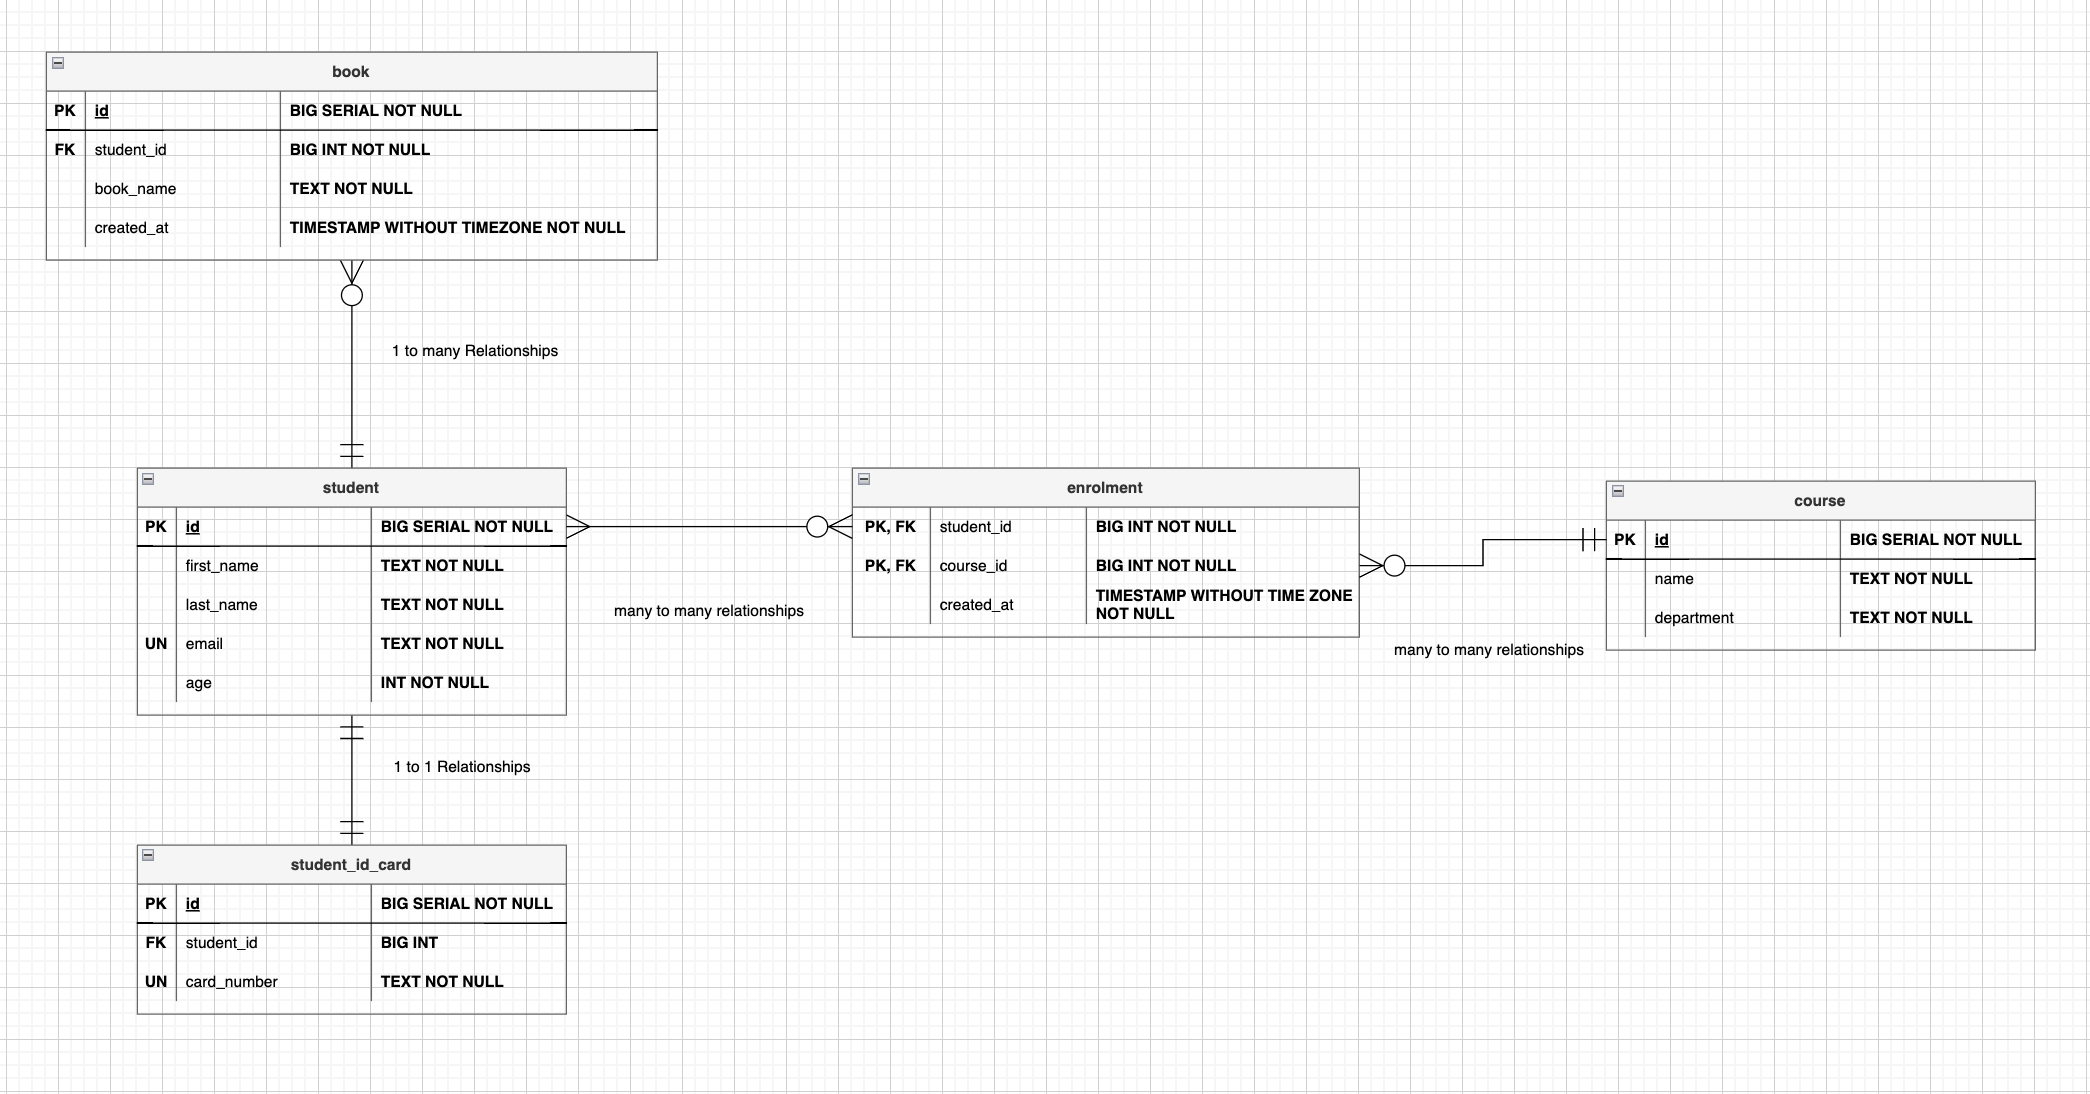
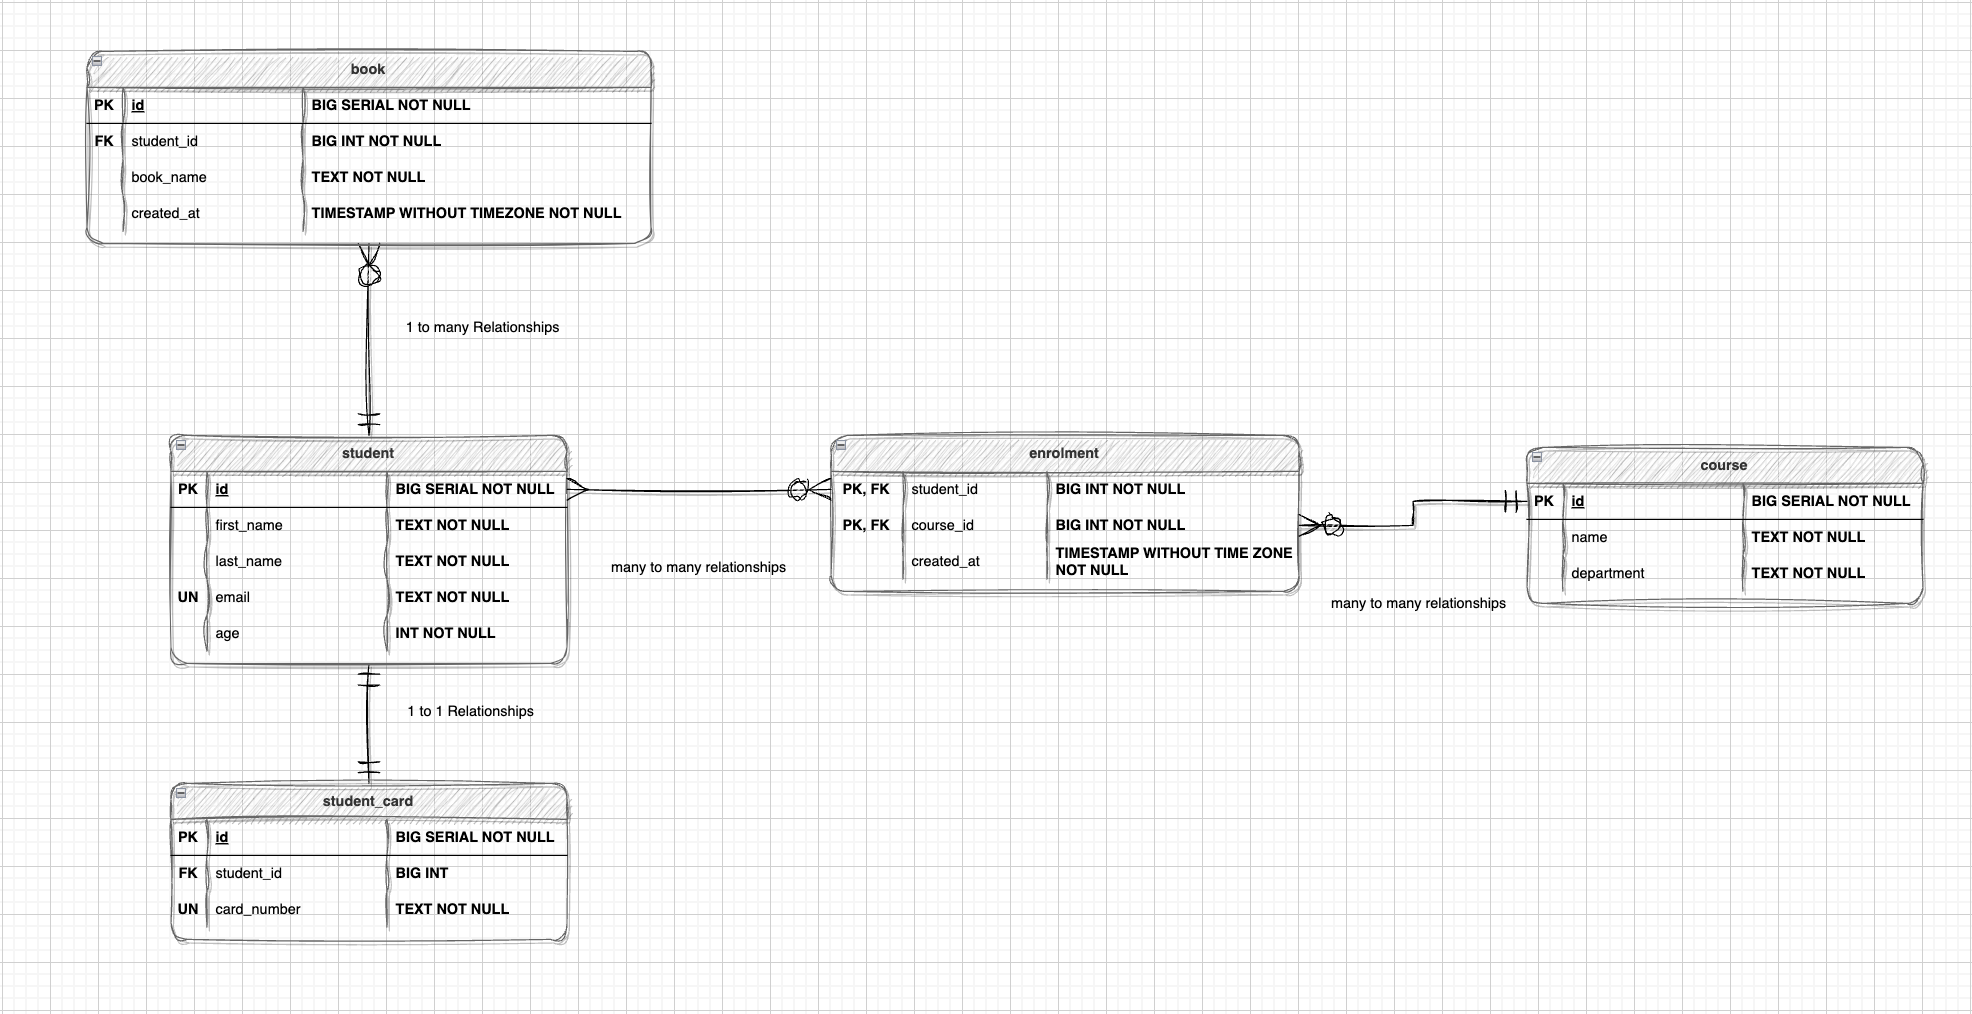
Implemented the data model

diff --git a/src/main/java/com/mohamedbamoh/studentcourseenrolment/entity/Student.java b/src/main/java/com/mohamedbamoh/studentcourseenrolment/entity/Student.java
@@ -1,0 +1,89 @@
+package com.mohamedbamoh.studentcourseenrolment.entity;
+
+import jakarta.persistence.*;
+import lombok.Getter;
+import lombok.NoArgsConstructor;
+import lombok.Setter;
+
+import java.util.List;
+
+@NoArgsConstructor
+@Setter
+@Getter
+@Entity(name = "Student")
+@Table(name = "student", uniqueConstraints = {
+        @UniqueConstraint(name = "student_email_uk", columnNames = "email")
+})
+public class Student {
+
+
+    @SequenceGenerator(
+            name = "student_seq",
+            sequenceName = "student_seq",
+            allocationSize = 1
+    )
+    @GeneratedValue(
+            strategy = GenerationType.SEQUENCE,
+            generator = "student_seq"
+    )
+    @Column(name = "id", updatable = false)
+    @Id
+    private Long Id;
+
+    @Column(name = "first_name",
+            nullable = false, columnDefinition = "TEXT")
+    private String firstName;
+
+    @Column(name = "last_name",
+            nullable = false, columnDefinition = "TEXT")
+    private String lastName;
+
+    @Column(name = "email",
+            nullable = false, columnDefinition = "TEXT")
+    private String email;
+
+    @Column(name = "age", nullable = false)
+    private Integer age;
+
+    @OneToOne(mappedBy = "student", orphanRemoval = true)
+    private StudentCard studentCard;
+
+    @OneToMany(mappedBy = "student",
+            orphanRemoval = true,
+            cascade = CascadeType.ALL
+    )
+    private List<Book> books;
+
+
+//    @ManyToMany(cascade = CascadeType.ALL)
+//    @JoinTable(name = "enrolment",
+//            joinColumns = @JoinColumn(name = "student_id",
+//                    foreignKey = @ForeignKey(name = "student_id_fk")
+//            ),
+//            inverseJoinColumns = @JoinColumn(name = "course_id",
+//                    foreignKey = @ForeignKey(name = "course_id_fk")
+//            )
+//    )
+//    private List<Course> courses;
+
+    @OneToMany(
+            cascade = CascadeType.ALL,
+            mappedBy = "student"
+    )
+    private List<Enrolment> enrolments;
+
+    public void addBook(Book book) {
+        if (!this.books.contains(book)) {
+            this.books.add(book);
+            book.setStudent(this);
+        }
+    }
+
+    public void removeBook(Book book) {
+        if (this.books.contains(book)) {
+            this.books.remove(book);
+            book.setStudent(null);
+        }
+    }
+
+}

diff --git a/src/main/java/com/mohamedbamoh/studentcourseenrolment/entity/StudentCard.java b/src/main/java/com/mohamedbamoh/studentcourseenrolment/entity/StudentCard.java
@@ -1,0 +1,41 @@
+package com.mohamedbamoh.studentcourseenrolment.entity;
+
+import jakarta.persistence.*;
+import lombok.Getter;
+import lombok.NoArgsConstructor;
+import lombok.Setter;
+
+@NoArgsConstructor
+@Setter
+@Getter
+@Entity(name = "StudentCard")
+@Table(name = "student_card",
+        uniqueConstraints = {
+                @UniqueConstraint(name = "student_card_number_uk",
+                        columnNames = "card_number")
+        }
+)
+public class StudentCard {
+
+    @SequenceGenerator(name = "student_card_seq",
+            sequenceName = "student_card_seq",
+            allocationSize = 1)
+    @GeneratedValue(strategy = GenerationType.SEQUENCE,
+            generator = "student_card_seq")
+    @Column(name = "id", updatable = false)
+    @Id
+    private Long id;
+
+    @Column(name = "card_number",
+            nullable = false,
+            columnDefinition = "TEXT")
+    private String cardNumber;
+
+    @OneToOne(cascade = CascadeType.ALL,
+            fetch = FetchType.EAGER)
+    @JoinColumn(name = "student_id",
+            referencedColumnName = "id",
+            foreignKey = @ForeignKey(name = "student_id_fk")
+    )
+    private Student student;
+}

diff --git a/src/main/java/com/mohamedbamoh/studentcourseenrolment/entity/Book.java b/src/main/java/com/mohamedbamoh/studentcourseenrolment/entity/Book.java
@@ -1,0 +1,44 @@
+package com.mohamedbamoh.studentcourseenrolment.entity;
+
+import jakarta.persistence.*;
+import lombok.Getter;
+import lombok.NoArgsConstructor;
+import lombok.Setter;
+
+import java.time.LocalDateTime;
+
+@NoArgsConstructor
+@Setter
+@Getter
+@Entity(name = "Book")
+@Table(name = "book")
+public class Book {
+
+    @SequenceGenerator(
+            name = "book_seq",
+            sequenceName = "book_seq",
+            allocationSize = 1
+    )
+    @GeneratedValue(strategy = GenerationType.SEQUENCE,
+            generator = "book_seq")
+    @Column(name = "id", updatable = false)
+    @Id
+    private Long Id;
+
+    @Column(name = "book_name",
+            nullable = false,
+            columnDefinition = "TEXT")
+    private String bookName;
+
+    @Column(name = "created_at",
+            nullable = false,
+            columnDefinition = "TIMESTAMP WITHOUT TIME ZONE")
+    private LocalDateTime createdAt;
+
+    @ManyToOne(cascade = CascadeType.ALL)
+    @JoinColumn(name = "student_id",
+            referencedColumnName = "id",
+            foreignKey = @ForeignKey(name = "student_id_fk")
+    )
+    private Student student;
+}

diff --git a/src/main/java/com/mohamedbamoh/studentcourseenrolment/entity/Course.java b/src/main/java/com/mohamedbamoh/studentcourseenrolment/entity/Course.java
@@ -1,0 +1,46 @@
+package com.mohamedbamoh.studentcourseenrolment.entity;
+
+import jakarta.persistence.*;
+import lombok.Getter;
+import lombok.NoArgsConstructor;
+import lombok.Setter;
+
+import java.util.List;
+
+@NoArgsConstructor
+@Setter
+@Getter
+@Entity(name = "Course")
+@Table(name = "course")
+public class Course {
+
+    @SequenceGenerator(name = "course_seq",
+            sequenceName = "course_seq",
+            allocationSize = 1
+    )
+    @GeneratedValue(strategy = GenerationType.SEQUENCE,
+            generator = "course_seq")
+    @Column(name = "id",
+            updatable = false)
+    @Id
+    private Long id;
+
+    @Column(name = "name",
+            nullable = false,
+            columnDefinition = "TEXT")
+    private String name;
+
+    @Column(name = "department",
+            nullable = false,
+            columnDefinition = "TEXT")
+    private String department;
+
+//    @ManyToMany(mappedBy = "courses")
+//    private List<Student> students;
+
+    @OneToMany(
+            cascade = CascadeType.ALL,
+            mappedBy = "course"
+    )
+    private List<Enrolment> enrolments;
+}

diff --git a/src/main/java/com/mohamedbamoh/studentcourseenrolment/entity/Enrolment.java b/src/main/java/com/mohamedbamoh/studentcourseenrolment/entity/Enrolment.java
@@ -1,0 +1,39 @@
+package com.mohamedbamoh.studentcourseenrolment.entity;
+
+import jakarta.persistence.*;
+import lombok.Getter;
+import lombok.NoArgsConstructor;
+import lombok.Setter;
+
+import java.time.LocalDateTime;
+
+@NoArgsConstructor
+@Getter
+@Setter
+@Entity(name = "Enrolment")
+@Table(name = "enrolment")
+public class Enrolment {
+
+    @EmbeddedId
+    private EnrolmentId id;
+
+    @ManyToOne
+    @MapsId("studentId")
+    @JoinColumn(name = "student_id",
+            foreignKey = @ForeignKey(name = "student_id_fk")
+    )
+    private Student student;
+
+    @ManyToOne
+    @MapsId("courseId")
+    @JoinColumn(name = "course_id",
+            foreignKey = @ForeignKey(name = "course_id_fk")
+     )
+    private Course course;
+
+    @Column(name = "created_at",
+            nullable = false,
+            columnDefinition = "TIMESTAMP WITHOUT TIME ZONE"
+    )
+    private LocalDateTime createdAt;
+}

diff --git a/src/main/java/com/mohamedbamoh/studentcourseenrolment/entity/EnrolmentId.java b/src/main/java/com/mohamedbamoh/studentcourseenrolment/entity/EnrolmentId.java
@@ -1,0 +1,18 @@
+package com.mohamedbamoh.studentcourseenrolment.entity;
+
+import jakarta.persistence.Column;
+import jakarta.persistence.Embeddable;
+import lombok.Data;
+
+import java.io.Serializable;
+
+@Data
+@Embeddable
+public class EnrolmentId implements Serializable {
+
+    @Column(name = "student_id")
+    private Long studentId;
+
+    @Column(name = "course_id ")
+    private Long courseId;
+}

diff --git a/src/main/java/com/mohamedbamoh/studentcourseenrolment/repository/StudentRepository.java b/src/main/java/com/mohamedbamoh/studentcourseenrolment/repository/StudentRepository.java
@@ -1,0 +1,9 @@
+package com.mohamedbamoh.studentcourseenrolment.repository;
+
+import com.mohamedbamoh.studentcourseenrolment.entity.Student;
+import org.springframework.data.jpa.repository.JpaRepository;
+import org.springframework.stereotype.Repository;
+
+@Repository
+public interface StudentRepository extends JpaRepository<Student, Long> {
+}

diff --git a/README.md b/README.md
@@ -20,5 +20,6 @@ The project utilizes the following technologies:
 - Java
 - Spring Boot
 - Spring Data JPA
+- GraphQL
 - PostgresSQL
 
